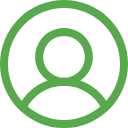
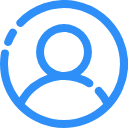
换了图标

diff --git a/src/pages/home/index.vue b/src/pages/home/index.vue
@@ -2,6 +2,25 @@
   <div class="home">
     <Swiper :images="images" />
     <tip-home></tip-home>
+    <wux-row>
+      <wux-col span="4" class="grids-icon">
+        <div class="grids-grid-icon"><img src="http://a-ui.cn/dome/car/images/icon-png/icon-ax-1.png" alt=""></div>
+        <p class="grids-grid-label">违章查询</p>
+        <p class="grids-grid-num">6次</p>
+      </wux-col>
+      <wux-col span="4" class="grids-icon">
+        <div class="grids-grid-icon"><img src="http://a-ui.cn/dome/car/images/icon-png/icon-ax-2.png" alt=""></div>
+        <p class="grids-grid-label">保险到期</p>
+        <p class="grids-grid-num">299天</p>
+      </wux-col>
+      <wux-col span="4" class="grids-icon">
+        <div class="grids-grid3-cont">
+          <div class="grids-grid-icon"><img src="http://a-ui.cn/dome/car/images/icon-png/icon-ax-3.png" alt=""></div>
+          <p class="grids-grid-label">保养到期</p>
+          <p class="grids-grid-num">188天</p>
+        </div>
+      </wux-col>
+    </wux-row>
     <button @click="go">跳转</button>
     <wux-grids>
       <wux-grid thumb="http://pbqg2m54r.bkt.clouddn.com/logo.png" label="Wux Weapp" />
@@ -84,6 +103,31 @@ export default {
 <style lang="less" scoped>
 .home {
   padding: 10px;
+
+  .grids-icon {
+    padding: 10px 0;
+    .grids-grid-icon {
+      width: 50px;
+      height: 50px;
+      margin: 0 auto;
+      img {
+        width: 50px;
+        height: 50px;
+      }
+    }
+    .grids-grid-label {
+      display: block;
+      text-align: center;
+      color: #000;
+      font-size: 12px;
+    }
+    .grids-grid-num {
+      display: block;
+      text-align: center;
+      color: #3598dc;
+      font-size: 16px;
+    }
+  }
 }
 </style>
 

diff --git a/static/wux/row/index.js b/static/wux/row/index.js
@@ -1,0 +1,44 @@
+Component({
+	externalClasses: ['wux-class'],
+    relations: {
+        '../col/index': {
+            type: 'child',
+            linked() {
+                this.updateStyle()
+            },
+            linkChanged() {
+                this.updateStyle()
+            },
+            unlinked() {
+                this.updateStyle()
+            },
+        },
+    },
+    properties: {
+        gutter: {
+            value: 0,
+            type: Number,
+            observer: 'updateStyle',
+        },
+    },
+    data: {
+        rowStyle: '',
+    },
+    methods: {
+    	updateStyle(gutter = this.data.gutter) {
+    		const elements = this.getRelationNodes('../col/index')
+            const rowStyle = gutter > 0 ? `margin-left: ${gutter / -2}px; margin-right: ${gutter / -2}px` : ''
+    		const colStyle = gutter > 0 ? `padding-left: ${gutter / 2}px; padding-right: ${gutter / 2}px` : ''
+
+            if (elements.length > 0) {
+				elements.forEach((element) => {
+				    element.updateStyle(colStyle)
+				})
+            }
+
+            this.setData({
+            	rowStyle,
+            })
+    	},
+    },
+})

diff --git a/static/wux/col/index.js b/static/wux/col/index.js
@@ -1,0 +1,38 @@
+Component({
+    externalClasses: ['wux-class'],
+    relations: {
+        '../row/index': {
+            type: 'parent',
+        },
+    },
+    properties: {
+        span: {
+            value: 0,
+            type: Number,
+        },
+        offset: {
+            value: 0,
+            type: Number,
+        },
+        pull: {
+            value: 0,
+            type: Number,
+        },
+        push: {
+            value: 0,
+            type: Number,
+        },
+    },
+    data: {
+        colStyle: '',
+    },
+    methods: {
+        updateStyle(colStyle) {
+            if (this.data.colStyle !== colStyle) {
+                this.setData({
+                    colStyle,
+                })
+            }
+        },
+    },
+})

diff --git a/src/pages.js b/src/pages.js
@@ -9,6 +9,8 @@ module.exports = [
         'wux-cell': '../static/wux/cell/index',
         'wux-cell-group': '../static/wux/cell-group/index',
         'wux-input': '../static/wux/input/index',
+        'wux-row': '../static/wux/row/index',
+        'wux-col': '../static/wux/col/index',
       },
     },
   },
